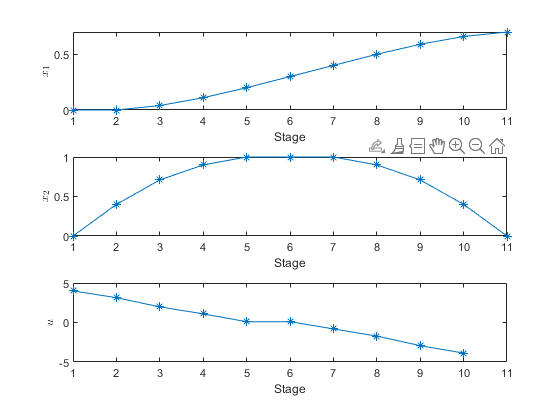
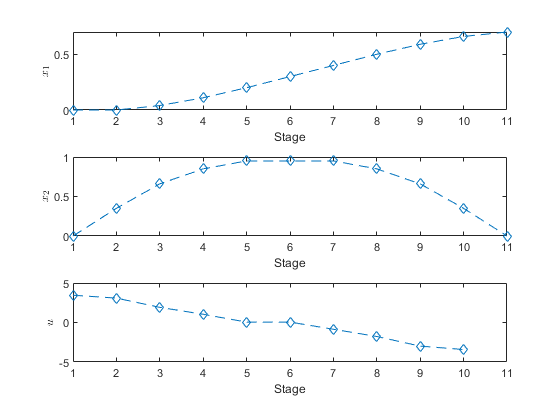
Added 1 more demo.

diff --git a/dpsf_1X_1U.m b/dpsf_1X_1U.m
@@ -1,4 +1,4 @@
-function dps = dps_1X_1U(X, ...
+function dps = dpsf_1X_1U(X, ...
                          U, ...
                          n_horizon, ...
                          state_update_fn, ...
@@ -14,17 +14,11 @@ J                    = ones(nX, n_horizon).*inf;  % Cost matrix
 U_star_matrix        = zeros(nX, n_horizon);      % Store the optimal inputs
 decendent_matrix     = zeros(nX, n_horizon);      % Store the optimal next state
 
-fprintf('Horizons : %i stages\n',n_horizon);
-fprintf('State    : %i nodes\n', nX);
-fprintf('Input    : %i nodes\n', nU);
-fprintf('Running backward dynamic programming algorithm...\n');  
+fprintf('Running forward dynamic programming algorithm...\n');  
 tic
 
-% The terminal cost is only a function of the state variables 
-J(:, n_horizon) = terminal_cost_fn(X);
-
 % The stage cost is a function of both the state variables and the input
-for k = n_horizon-1 : -1 : 1  
+for k = 1 : n_horizon  
     ll = fprintf('Stage-%i',k);    
     
     for i = 1 :  nX      % 1 state variable        
@@ -38,7 +32,7 @@ for k = n_horizon-1 : -1 : 1
         ind = snap(x_next_post_boundary, ...
             repmat(lb,nU,1), repmat(ub,nU,1), repmat(nX-1,nU,1));
                 
-        J_ = stage_cost(repmat(X(i),nU,1), U, k) ...
+        J_ = stage_cost(repmat(X(i),nU,1), U) ...
             + J(ind,k+1) + is_infeasible .* 1e6;        
         [J_min, J_min_idx] = min(J_);
         
@@ -49,6 +43,10 @@ for k = n_horizon-1 : -1 : 1
     
     fprintf(repmat('\b',1,ll));
 end
+
+% The terminal cost is only a function of the state variables 
+J(:, n_horizon+1) = terminal_cost_fn(X);
+
 fprintf('Completed\n');
 
 % Store the results

diff --git a/dps_2X_1U.m b/dps_2X_1U.m
@@ -19,15 +19,20 @@ J                = ones(N,  n_horizon).*inf; % Cost matrix
 U_star_matrix    = zeros(N, n_horizon);      % Store the optimal inputs
 decendent_matrix = zeros(N, n_horizon);      % Store the optimal next state
 
-% The terminal cost is only a function of the state variables
+fprintf('Horizons : %i stages\n',n_horizon);
+fprintf('State    : %i nodes\n', N);
+fprintf('Input    : %i nodes\n', nU);
+fprintf('Running backward dynamic programming algorithm...\n');
 tic
-fprintf('Terminal stage...\n');
+
+% The terminal cost is only a function of the state variables
 [r, c] = ind2sub([nX1 nX2], 1:N);
 J(:, n_horizon) = terminal_cost_fn(X1(r), X2(c));
 
 % The stage cost is a function of both the state variables and the input
 for k = n_horizon-1 : -1 : 1
-    fprintf('Stage-%i...\n',k);
+    ll = fprintf('Stage-%i',k);    
+
     for i = 1 :  N
         [r, c] = ind2sub([nX1 nX2], i);
         [x1_next, x2_next] = state_update_fn(repmat(X1(r),nU,1), ...
@@ -53,7 +58,9 @@ for k = n_horizon-1 : -1 : 1
         U_star_matrix(i,k) = U(J_min_idx);
         J(i,k) = J_min;
     end
+    fprintf(repmat('\b',1,ll));
 end
+fprintf('Completed\n');
 
 % Store the results
 dps.J = J;

diff --git a/demo_04_storage_strategy.m b/demo_04_storage_strategy.m
@@ -1,0 +1,53 @@
+%% 
+% Auralius Manurung
+% ME - Universitas Pertamina
+% 2021
+%
+% Optimal storage strategy
+
+%%
+clear
+close all
+clc
+
+% Setup the states and the inputs
+X = ( 0 : 0.1 : 500)';
+U = ( 0 : 0.1 : 10 )';
+
+% Setup the horizon
+Tf = 30;   % 200 days
+Ts = 1;    % Every 1 day
+T_vect = 0:Ts:Tf;
+n_horizon = length(T_vect);
+
+% Initiate the solver
+dps = dps_1X_1U(X, U, n_horizon, @state_update_fn, @stage_cost_fn, @terminal_cost_fn);
+
+% Extract meaningful results for a given initial condition
+x0 = 0;
+dps = trace_1X_1U(dps, x0);
+
+% Do plotting here
+plot_1X_1U(dps);
+
+%%
+function [x_next] = state_update_fn(x, u)
+Ts = 1;
+x_next = Ts.*u + x; 
+end
+
+%%
+function J = stage_cost_fn(x, u, k)
+Ts = 1;  % Step size
+r = 0.1; % production cost growth rate
+c = 10;  % storage cost per time unit
+J =  Ts*exp(r*k*Ts).*u + c*x*Ts;
+end
+
+%%
+function J = terminal_cost_fn(x)
+r = 1000;
+xf = 200;
+Ts = 1;
+J = Ts*r .* (xf-x).^2;
+end

diff --git a/demo_03_fishery.m b/demo_03_fishery.m
@@ -1,0 +1,50 @@
+%% 
+% Auralius Manurung
+% ME - Universitas Pertamina
+% 2021
+%
+% Lotka-Volterra Fishery Problem
+
+%%
+clear
+close all
+clc
+
+% Setup the states and the inputs
+X = ( 0 : 1   : 1000)';
+U = ( 0 : 0.1 : 10 )';
+
+% Setup the horizon
+Tf = 200;   % 200 days
+Ts = 0.2;   % Every 0.2 days
+T_vect = 0:Ts:Tf;
+n_horizon = length(T_vect);
+
+% Initiate the solver
+dps = dps_1X_1U(X, U, n_horizon, @state_update_fn, @stage_cost_fn, @terminal_cost_fn);
+
+% Extract meaningful results for a given initial condition
+x0 = 250;
+dps = trace_1X_1U(dps, x0);
+
+% Do plotting here
+plot_1X_1U(dps);
+
+%%
+function [x_next] = state_update_fn(x, u)
+Ts = 0.2;
+f = Ts .* (0.02 .* (x-x.^2/ 1000) - u);
+x_next = f + x; 
+end
+
+%%
+function J = stage_cost_fn(x, u,k)
+Ts = 0.2;
+J =  -Ts .* u;
+end
+
+%%
+function J = terminal_cost_fn(x)
+r = 100;
+J = r .* (750-x).^2;
+end

diff --git a/trace_1X_1U.m b/trace_1X_1U.m
@@ -1,7 +1,7 @@
 function dps = trace_1X_1U(dps, x_ic)
 
-x_star = zeros(dps.n_horizon+1, 1);
-u_star  = zeros(dps.n_horizon , 1);
+x_star = zeros(dps.n_horizon,   1);
+u_star = zeros(dps.n_horizon-1, 1);
 
 % Unpack the data, field access is slow
 nX               = length(dps.X);
@@ -11,16 +11,18 @@ U_star_matrix    = dps.U_star_matrix;
 decendent_matrix = dps.decendent_matrix;
 
 id = snap(x_ic, min(X), max(X), nX-1);
-
-for k = 1 : n_horizon     
+for k = 1 : n_horizon             
     x_star(k) = X(id);
-    u_star(k) = U_star_matrix(id, k);    
+    
+    if (k < n_horizon)
+        u_star(k) = U_star_matrix(id, k);    
+    end
+    
     id = decendent_matrix(id,k);
 end
 
-x_star(end) = decendent_matrix(id,k);
 
 % Store the results
 dps.x_star = x_star;
-dps.u_star = u_star;
+dps.u_star = remove_spike(u_star);
 end

diff --git a/plot_2X_1U.m b/plot_2X_1U.m
@@ -1,7 +1,7 @@
-function plot_2X_1U(dps)
+function plot_2X_1U(dps, line_style)
 figure
 subplot(3,1,1)
-plot(dps.x1_star, '-*')
+plot(dps.x1_star, line_style)
 xlabel('Stage')
 ylabel('$x_1$', 'Interpreter','latex')
 xlim([1 dps.n_horizon])
@@ -10,7 +10,7 @@ ax = gca;
 ax.XTick = unique(round(ax.XTick) );
 
 subplot(3,1,2)
-plot(dps.x2_star, '-*')
+plot(dps.x2_star, line_style)
 xlabel('Stage')
 ylabel('$x_2$', 'Interpreter','latex')
 xlim([1 dps.n_horizon])
@@ -19,7 +19,7 @@ ax = gca;
 ax.XTick = unique(round(ax.XTick) );
 
 subplot(3,1,3)
-plot(dps.u_star, '-*')
+plot(dps.u_star, line_style)
 xlabel('Stage')
 ylabel('$u$', 'Interpreter','latex')
 xlim([1 dps.n_horizon])

diff --git a/plot_1X_1U.m b/plot_1X_1U.m
@@ -2,7 +2,7 @@ function plot_1X_1U(dps)
 
 figure
 subplot(2,1,1)
-plot(dps.x_star, '-*')
+bar(dps.x_star)
 xlabel('Stage')
 ylabel('$x$', 'Interpreter','latex')
 xlim([1 dps.n_horizon+1])
@@ -11,12 +11,11 @@ ax = gca;
 ax.XTick = unique(round(ax.XTick) );
 
 subplot(2,1,2)
-plot(dps.u_star, '-*')
+bar(dps.u_star)
 xlabel('Stage')
 ylabel('$u$', 'Interpreter','latex')
 xlim([1 dps.n_horizon+1])
 
 ax = gca;
 ax.XTick = unique(round(ax.XTick) );
-
 end

diff --git a/demo_02_moving_mass.m b/demo_02_moving_mass.m
@@ -24,7 +24,7 @@ dps = dps_2X_1U(X, V, F, n_horizon, @state_update_fn, @stage_cost_fn, @terminal_
 dps = trace_2X_1U(dps, 0, 0);
 
 % Do plotting here
-plot_2X_1U(dps);
+plot_2X_1U(dps, '--d');
 
 %%
 function [x1_next, x2_next] = state_update_fn(x1, x2, u)
@@ -38,7 +38,7 @@ x2_next = x2 - b/m*dt.*x2 + dt/m.*u;
 end
 
 %%
-function J = stage_cost_fn(x1, x2, u)
+function J = stage_cost_fn(x1, x2, u, k)
 a1 = 1;
 dt = 0.1;
 J = a1*dt*u.^2;

diff --git a/demo_01_two_oven_problem.m b/demo_01_two_oven_problem.m
@@ -11,12 +11,10 @@ X = (0:1:1000)';
 U = (0:1:1000)';
 
 % Setup the horizon
-n_horizon = 2;
+n_horizon = 3;
 
 % Initiate the solver
-tic
 dps = dps_1X_1U(X, U, n_horizon, @state_update_fn, @stage_cost_fn, @terminal_cost_fn);
-toc
 
 % Extract meaningful results
 x0 = 30;
@@ -32,7 +30,7 @@ x_next = (1 - a).*x + a .* u;
 end
 
 %%
-function J = stage_cost_fn(x, u)
+function J = stage_cost_fn(x, u, k)
 J = u.^2;
 end
 

diff --git a/snap.m b/snap.m
@@ -5,6 +5,6 @@
 
 function snapped_val = snap(val, min_val, max_val, N)
 
-snapped_val = floor((val - min_val) ./ (max_val - min_val) .* N + 1);
+snapped_val = round((val - min_val) ./ (max_val - min_val) .* N + 1);
 
 end

diff --git a/remove_spike.m b/remove_spike.m
@@ -1,0 +1,9 @@
+function x = remove_spike(x)
+if length(x) > 10
+    [~,loc] = findpeaks(x, 'Threshold',1);
+    if ~isempty(loc)
+        x(loc) = NaN;
+        x = fillmissing(x,'previous');
+    end
+end
+end
